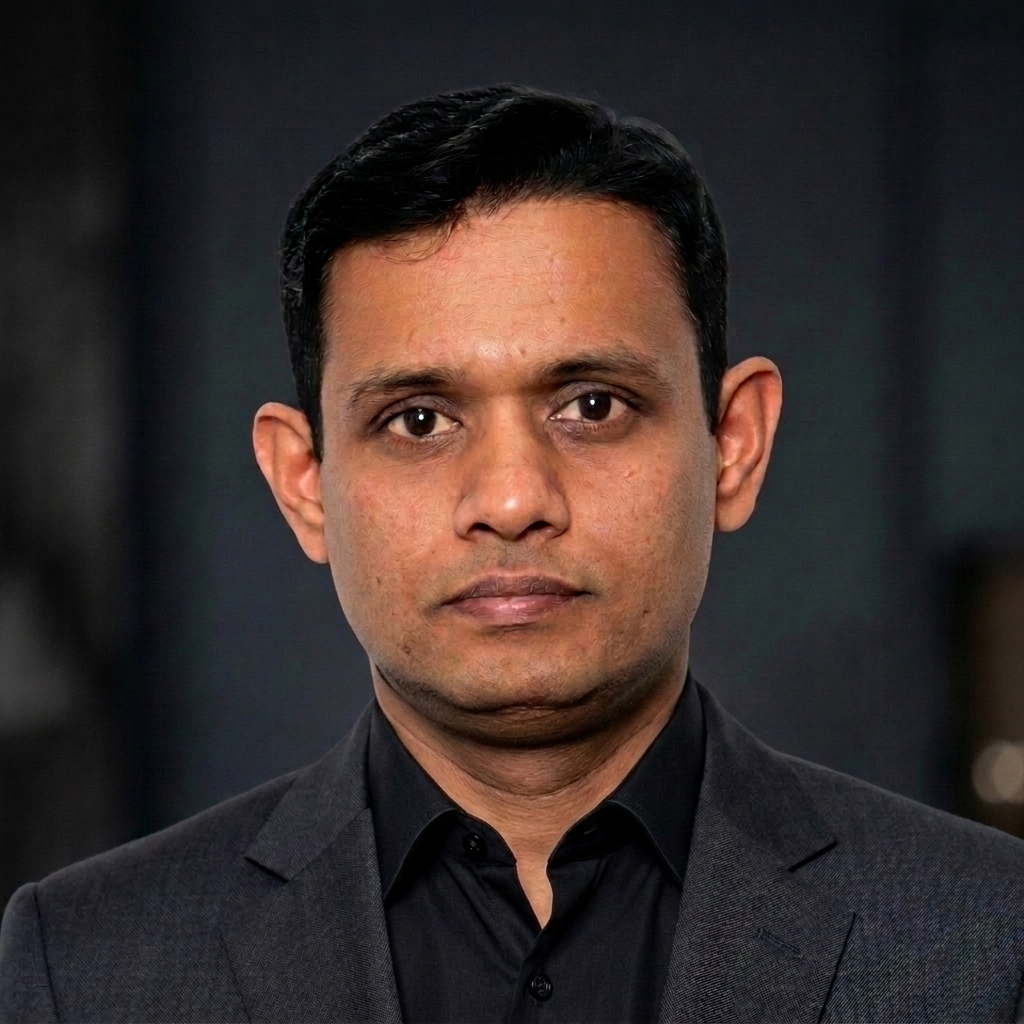
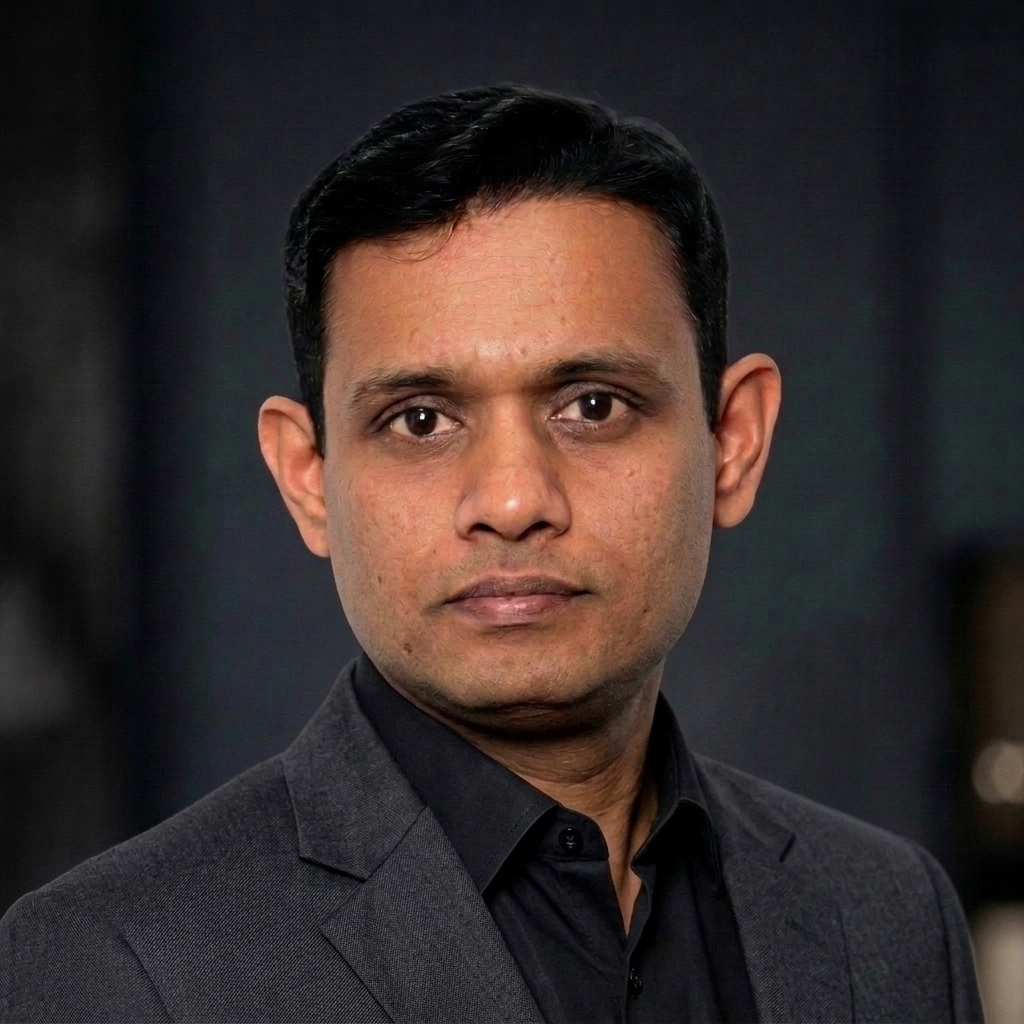
feat(media): update executive portrait with subtle 3/4 side angle view and tailored dark suit

diff --git a/cv.html b/cv.html
@@ -93,7 +93,7 @@
       <header class="cv-header">
         <div class="cv-header-identity">
           <div class="cv-avatar-wrap">
-            <img src="profile.jpg?v=17" alt="Rajeev Mutyalu" class="cv-avatar-img" />
+            <img src="profile.jpg?v=18" alt="Rajeev Mutyalu" class="cv-avatar-img" />
           </div>
           <div class="cv-identity-text">
             <h1 class="cv-name">Rajeev Mutyalu</h1>

diff --git a/index.html b/index.html
@@ -141,7 +141,7 @@
       <!-- Profile Photo & Status -->
       <div class="hero-avatar-wrapper">
         <div class="avatar-glow"></div>
-        <img src="profile.jpg?v=17" alt="Rajeev Mutyalu" class="hero-avatar" />
+        <img src="profile.jpg?v=18" alt="Rajeev Mutyalu" class="hero-avatar" />
       </div>
 
       <div class="status-pill">
